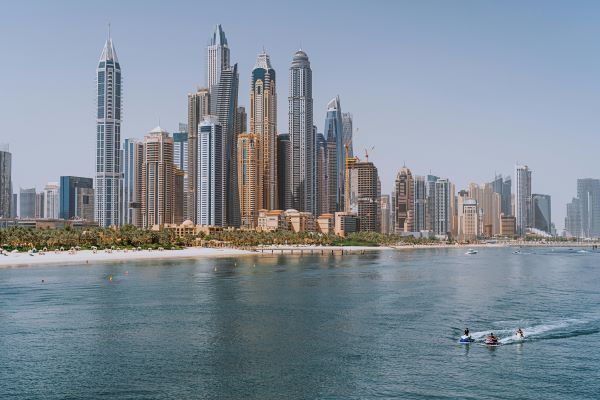
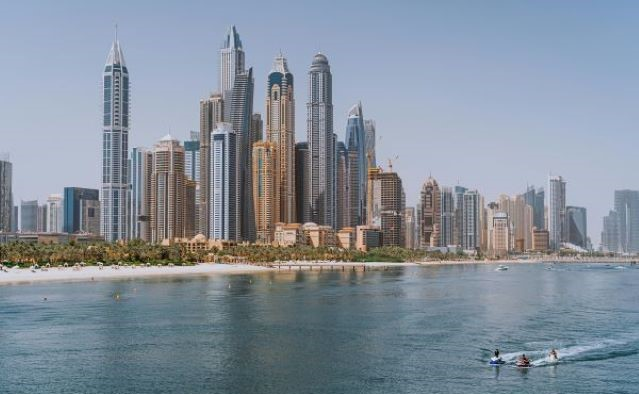
Add resized images to fit

diff --git a/assets/css/style.css b/assets/css/style.css
@@ -241,7 +241,7 @@ h1 { font-family:Verdana, Geneva, Tahoma, sans-serif ;
    #next { float:none;
   }
 
-  #time { display: flex;
+  #time { display: none;
           flex-direction: column;
           margin : auto;
           margin-top: 20px;
